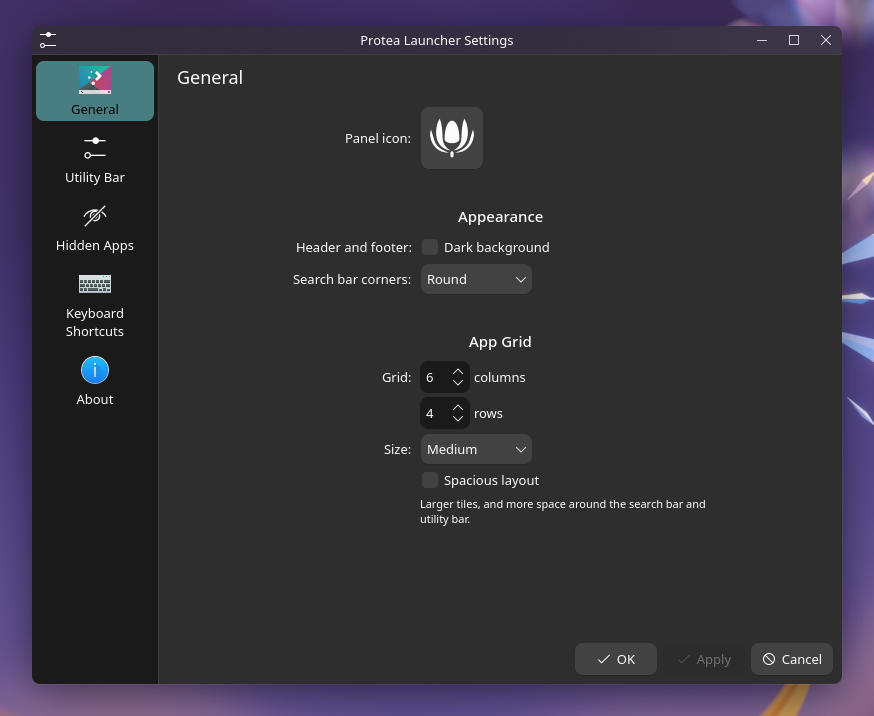
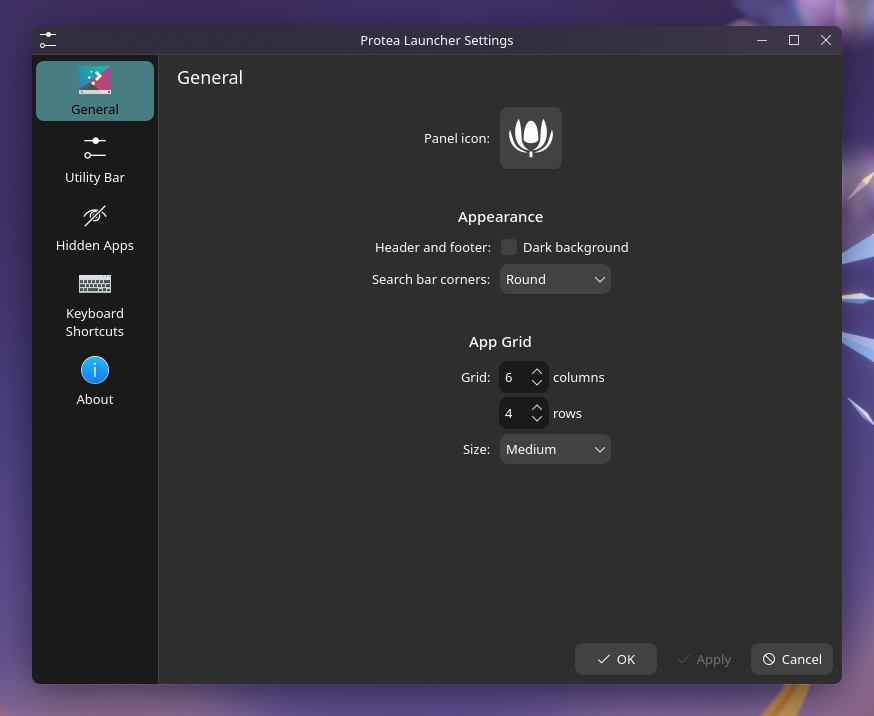
removed spacious layout option

diff --git a/package/contents/ui/FullRepresentation.qml b/package/contents/ui/FullRepresentation.qml
@@ -75,12 +75,9 @@ T.Control {
     implicitWidth: implicitContentWidth + leftPadding + rightPadding
     implicitHeight: implicitContentHeight + topPadding + bottomPadding
 
-    // Larger tiles, and more space around the header and footer.
-    readonly property bool spacious: Plasmoid.configuration.spaciousLayout
-
     // The same gap between the popup's edges and the sections, and between the sections:
-    // the space around the header and footer. Half as much again in the spacious layout.
-    readonly property real sectionGap: spacious ? Kirigami.Units.largeSpacing * 1.5 : Kirigami.Units.largeSpacing
+    // the space around the header and footer.
+    readonly property real sectionGap: Kirigami.Units.largeSpacing
 
     // Whether the header and footer (the search bar and utility bar) sit in dark bands.
     readonly property bool darkHeaderFooter: Plasmoid.configuration.headerFooterDarkBackground
@@ -94,12 +91,11 @@ T.Control {
     // Apps left out of the grid (they still show up in search), by desktop file ID.
     readonly property list<string> hiddenApps: Plasmoid.configuration.hiddenApps
 
-    // Icon size, tile size and larger tile size for each app grid size (the gridSize
-    // setting). The spacious layout picks the larger tile.
+    // Icon size and tile size for each app grid size (the gridSize setting).
     readonly property var gridSizes: ({
-        small: { iconSize: 40, tileSize: 104, largerTileSize: 112 },
-        medium: { iconSize: 48, tileSize: 112, largerTileSize: 120 },
-        large: { iconSize: 56, tileSize: 120, largerTileSize: 128 },
+        small: { iconSize: 40, tileSize: 104 },
+        medium: { iconSize: 48, tileSize: 112 },
+        large: { iconSize: 56, tileSize: 120 },
     })
     readonly property var gridSize: gridSizes[Plasmoid.configuration.gridSize] ?? gridSizes.medium
 
@@ -307,7 +303,7 @@ T.Control {
             columns: Plasmoid.configuration.columns
             rows: Plasmoid.configuration.rows
             iconSize: root.gridSize.iconSize
-            tileSize: root.spacious ? root.gridSize.largerTileSize : root.gridSize.tileSize
+            tileSize: root.gridSize.tileSize
             // Enter in the search box launches the selected tile too.
             highlightActive: activeFocus || searchBar.activeFocus
             hiddenApps: root.hiddenApps

diff --git a/package/contents/ui/ConfigGeneral.qml b/package/contents/ui/ConfigGeneral.qml
@@ -23,7 +23,6 @@ KCM.SimpleKCM {
     property alias cfg_columns: columns.value
     property alias cfg_rows: rows.value
     property string cfg_gridSize
-    property alias cfg_spaciousLayout: spaciousLayout.checked
 
     // Plasma also passes each setting's default; these give it somewhere to go.
     property string cfg_iconDefault
@@ -32,7 +31,6 @@ KCM.SimpleKCM {
     property int cfg_columnsDefault
     property int cfg_rowsDefault
     property string cfg_gridSizeDefault
-    property bool cfg_spaciousLayoutDefault
 
     // Set on the Utility Bar and Hidden Apps pages; Plasma hands every setting to every page.
     property var cfg_showUtilityBar
@@ -169,18 +167,6 @@ KCM.SimpleKCM {
             valueRole: "value"
             currentIndex: root.gridSizeOptions.findIndex(option => option.value === root.cfg_gridSize)
             onActivated: root.cfg_gridSize = currentValue
-        }
-
-        // Tiles 8px larger, and 12px around the search bar and utility bar instead of 8.
-        QQC2.CheckBox {
-            id: spaciousLayout
-            text: i18nc("@option:check", "Spacious layout")
-        }
-        QQC2.Label {
-            Layout.maximumWidth: Kirigami.Units.gridUnit * 16
-            text: i18nc("@info", "Larger tiles, and more space around the search bar and utility bar.")
-            font: Kirigami.Theme.smallFont
-            wrapMode: Text.Wrap
         }
     }
 }

diff --git a/package/contents/ui/ConfigHiddenApps.qml b/package/contents/ui/ConfigHiddenApps.qml
@@ -30,8 +30,6 @@ KCM.ScrollViewKCM {
     property var cfg_rowsDefault
     property var cfg_gridSize
     property var cfg_gridSizeDefault
-    property var cfg_spaciousLayout
-    property var cfg_spaciousLayoutDefault
     property var cfg_showUtilityBar
     property var cfg_showUtilityBarDefault
     property var cfg_showAvatar

diff --git a/package/contents/ui/ConfigUtilityBar.qml b/package/contents/ui/ConfigUtilityBar.qml
@@ -40,8 +40,6 @@ KCM.SimpleKCM {
     property var cfg_rowsDefault
     property var cfg_gridSize
     property var cfg_gridSizeDefault
-    property var cfg_spaciousLayout
-    property var cfg_spaciousLayoutDefault
     property var cfg_hiddenApps
     property var cfg_hiddenAppsDefault
 

diff --git a/DIMENSIONS.md b/DIMENSIONS.md
@@ -3,7 +3,7 @@
 Every size and gap used in the launcher popup, measured from the running code.
 
 - **Measured:** 2026-10-22 on Plasma 6.8.0 (Qt 6.12, Frameworks 6.31): the real popup loaded offscreen with the installed Plasma modules and KDE's font settings. First measured 2026-10-04 on Plasma 6.7. The popup padding and section spacing went from 12 to 8 later on 2026-10-22, and the default size from Cozy to Medium when Compact and Cozy were removed; the values here are for 8 and Medium.
-- **Settings:** the defaults: 6 columns × 4 rows, the **Medium** size (48px icons in 112px tiles), Round search bar corners, no dark header and footer, not the spacious layout.
+- **Settings:** the defaults: 6 columns × 4 rows, the **Medium** size (48px icons in 112px tiles), Round search bar corners, no dark header and footer.
 - **Font:** Noto Sans 10pt (line height 17.7px). Label heights change with the system font. The Kirigami spacing units don't: they're fixed values.
 - **Units:** logical pixels, before display scaling.
 - **Not included:** the frame Plasma draws around the popup: 4px on every side with the Breeze theme. The window on screen is that much larger than the content sizes here. In a panel that isn't floating, Plasma also adds 1px between the popup and the panel (to the height for a top or bottom panel, the width for a side panel) for the separator line it draws there, and that pixel ends up in the app grid section: 465 tall instead of 464 under a bottom panel.
@@ -11,8 +11,6 @@ Every size and gap used in the launcher popup, measured from the running code.
 ## At a glance
 
 Content area: **720 × 562px** (720 × 554 with the dark header and footer). The popup has **8px padding** on every side and its three sections (search bar, app grid, utility bar) are **8px apart**, so the search bar and utility bar have 8px on all sides. The app grid spans the popup's full width and has one **24px gap** at each side of the tiles, with the scrollbar inside the right one, so the tiles are centred whether or not the scrollbar shows. Above the first row and below the last there's **8px** of empty space that scrolls with the tiles.
-
-With **Spacious layout** ticked (under Size) the padding and section spacing are **12px** instead, `largeSpacing × 1.5`, and the tiles are 8 larger (see [App grid sizes](#app-grid-sizes)). At 6 × 4 Medium the popup is 768 × 610 (602 with the dark header and footer; 562 and 558 without the utility bar), and each bar is 744 wide (752 in the dark bands).
 
 ### Top to bottom
 
@@ -62,8 +60,8 @@ It only ends up smaller if Plasma has to shrink it to fit the screen (Plasma cap
 |---|---|---|
 | Content size | 720 × 562 (720 × 554 with the dark header and footer) | Worked out by the layout from the content: columns × rows of tiles, the padding around them, and the bars |
 | Size limits | Minimum = maximum = content size, for both width and height | `Layout.minimum…`/`maximum…` bound to the implicit size; Plasma takes the popup's size limits from them, so it can't be dragged to another size |
-| Padding (all four sides) | 8 (4 at the top and bottom with the dark header and footer); 12 (8) in the spacious layout | `padding` = `sectionGap` = `Kirigami.Units.largeSpacing`, × 1.5 with the `spaciousLayout` setting; the app grid has `Layout.leftMargin` and `Layout.rightMargin` of −8 to span the full width, and its own gap at each side instead |
-| Section spacing | 8 (12 in the spacious layout) | `spacing` = `sectionGap` |
+| Padding (all four sides) | 8 (4 at the top and bottom with the dark header and footer) | `padding` = `sectionGap` = `Kirigami.Units.largeSpacing`; the app grid has `Layout.leftMargin` and `Layout.rightMargin` of −8 to span the full width, and its own gap at each side instead |
+| Section spacing | 8 | `spacing` = `sectionGap` |
 
 ## Search bar
 
@@ -84,7 +82,7 @@ It only ends up smaller if Plasma has to shrink it to fit the screen (Plasma cap
 | Position | x 0, y 46 | Popup padding, search bar and section spacing above it |
 | Gap at each side | 24 between the section's edge and the tiles, the same on both sides (`horizontalPadding`, `Kirigami.Units.largeSpacing × 3`). It's the grid view's own margin, as in Kickoff, so the wheel and dragging scroll the grid from the gaps too | The scrollbar sits inside the right gap, so it doesn't change where the tiles are |
 | Scrolling space | 8 of empty space above the first row and below the last, which scrolls with the tiles, so they can move through it (`scrollPadding`, the grid's header and footer; `Kirigami.Units.largeSpacing`) | Arrowing into the first or last row scrolls all the way to the top or bottom, so the space shows |
-| Cell | 112 × 112, square | The size's tile (or larger tile); never smaller than a tile's icon and two-line label need |
+| Cell | 112 × 112, square | The size's tile; never smaller than a tile's icon and two-line label need |
 | Columns × rows | 6 × 4 | `columns`, `rows` settings |
 | Tile area | 672 × 448 at x 24, y 54 (at the top of the list) | columns × cell, rows × cell |
 | Scrollbar | 18-wide slot at the popup's right edge, inside the 24 gap, the full height of the section, 6 clear of the tiles; the visible handle is 6 wide, with 6 of the slot's own padding on each side, so it sits 6 from the popup's edge and 12 from the last column of tiles. The 1px separator Breeze asks Plasma to draw along the slot's inner edge is hidden | Plasma scrollbar style; it takes no space of its own |
@@ -132,7 +130,6 @@ All fixed values in Kirigami 6; Plasma only changes the animation durations.
 | Unit | Value | Used for |
 |---|---:|---|
 | `smallSpacing` | 4 | Icon-to-label gap in tiles |
-| `largeSpacing × 1.5` | 12 | Popup padding and section spacing in the spacious layout |
 | `largeSpacing` | 8 | Popup padding and section spacing (`sectionGap`), the scrolling space above and below the tiles, tile padding, gap between utility buttons |
 | `largeSpacing × 3` | 24 | The gap at each side of the app grid |
 | `gridUnit` | 18 | Utility button size (× 2); "No matches" message inset (× 4) |
@@ -154,25 +151,22 @@ All fixed values in Kirigami 6; Plasma only changes the animation durations.
 
 ## App grid sizes
 
-The app grid's **Size** setting picks one of three sizes, each an icon size and a tile size. **Spacious layout** swaps in a tile 8 larger for whichever size is chosen, and puts 12 around the header and footer instead of 8. Every combination leaves room for the icon and a two-line name: a tile needs 8 + icon + 4 + 36 (two lines) + 8, and the tile is 8 more than that (16 more with the spacious layout's larger tile).
+The app grid's **Size** setting picks one of three sizes, each an icon size and a tile size. Every size leaves room for the icon and a two-line name: a tile needs 8 + icon + 4 + 36 (two lines) + 8, and the tile is 8 more than that.
 
-| Size | Icon | Tile | Larger tile | Tile needs |
-|---|---:|---:|---:|---:|
-| Small | 40 | 104 | 112 | 96 |
-| Medium (default) | 48 | 112 | 120 | 104 |
-| Large | 56 | 120 | 128 | 112 |
+| Size | Icon | Tile | Tile needs |
+|---|---:|---:|---:|
+| Small | 40 | 104 | 96 |
+| Medium (default) | 48 | 112 | 104 |
+| Large | 56 | 120 | 112 |
 
 | Size | Label width | Icon from top / label from bottom | Popup content at 6 × 4 |
 |---|---:|---|---:|
 | Small | 88 | 12 / 12 | 672 × 530 |
-| Small, spacious | 96 | 16 / 16 | 720 × 578 |
 | Medium (default) | 96 | 13 / 11 | 720 × 562 |
-| Medium, spacious | 104 | 17 / 15 | 768 × 610 |
 | Large | 104 | 13 / 11 | 768 × 594 |
-| Large, spacious | 112 | 18 / 14 | 816 × 642 |
 
 - Width = columns × tile + 48: the 24 gap at each side of the grid.
-- Height = rows × tile + 114: 54 above the tiles (8 + 30 + 8 + 8) and 60 below them (8 + 8 + 36 + 8). 8 less with the dark header and footer. In the spacious layout it's rows × tile + 130, as the four gaps of 8 there are 12.
+- Height = rows × tile + 114: 54 above the tiles (8 + 30 + 8 + 8) and 60 below them (8 + 8 + 36 + 8). 8 less with the dark header and footer.
 
 ## Where it's set
 
@@ -184,4 +178,4 @@ The app grid's **Size** setting picks one of three sizes, each an icon size and 
 | Round search bar corners | [search/SearchBar.qml](package/contents/ui/search/SearchBar.qml) |
 | Avatar size, gap between buttons, button icon names, power menu | [utility/UtilityBar.qml](package/contents/ui/utility/UtilityBar.qml) |
 | Button size, button icon size | [utility/UtilityButton.qml](package/contents/ui/utility/UtilityButton.qml) |
-| Defaults for columns, rows, size, spacious layout, dark header and footer, search bar corners | [config/main.xml](package/contents/config/main.xml) |
+| Defaults for columns, rows, size, dark header and footer, search bar corners | [config/main.xml](package/contents/config/main.xml) |

diff --git a/PUBLISHING.md b/PUBLISHING.md
@@ -74,7 +74,7 @@ Taken after Phase 3, so they show the launcher as it will ship. Keep them outsid
 - [x] The blank square in Plasma's Alternative Widgets list. It wasn't a missing preview picture: that list, and Add Widgets, show each widget's icon, and Protea's didn't load. `metadata.json` gave it as `/contents/icons/protea.svg`, but Plasma looks up an icon starting with `/` inside the package's `contents/` folder, so it found nothing. It's `/icons/protea.svg` now, and shows in both. The panel icon was never affected: Protea sets that itself
 - [x] A short description for the store page: in [STORE.md](STORE.md), with the store's other fields and the order to upload the screenshots in
 
-How the screenshots were taken (2026-10-22): in the same kind of nested Plasma 6.8 session as Phase 3, on a 1920 × 1080 screen at 100%, with the Protea Dark theme copied from the installed files (its Teal accent, Plasma Style, Breeze Dark icons, and the Protea app style and window decoration), Plasma's default wallpaper, and a bottom panel. The grid hides the same apps as your own panel. The avatar shows its letter rather than a picture: the test copy of the launcher was changed for that, not the one in `package/`. The popup shots are cropped to the popup and the panel's corner; the settings shots to the window with 32 px around it. `popup.png` and `search.png` were retaken the same day after the popup's padding went from 12 to 8, and `settings-general.png` after Spacious layout replaced Use larger tiles and Larger padding. All three were retaken again when Medium became the default size.
+How the screenshots were taken (2026-10-22): in the same kind of nested Plasma 6.8 session as Phase 3, on a 1920 × 1080 screen at 100%, with the Protea Dark theme copied from the installed files (its Teal accent, Plasma Style, Breeze Dark icons, and the Protea app style and window decoration), Plasma's default wallpaper, and a bottom panel. The grid hides the same apps as your own panel. The avatar shows its letter rather than a picture: the test copy of the launcher was changed for that, not the one in `package/`. The popup shots are cropped to the popup and the panel's corner; the settings shots to the window with 32 px around it. `popup.png` and `search.png` were retaken the same day after the popup's padding went from 12 to 8, and `settings-general.png` after Spacious layout replaced Use larger tiles and Larger padding. All three were retaken again when Medium became the default size, and `settings-general.png` once more when Spacious layout was removed.
 
 **Done when:** the screenshots and the store description are ready to upload.
 

diff --git a/PLAN.md b/PLAN.md
@@ -260,6 +260,7 @@ Things only a running session shows. Most were checked offscreen: the real popup
 - [x] **Larger padding** setting (`headerFooterLargerPadding`, off by default), a second box under Header and footer on the General page: `sectionGap` goes back to `largeSpacing × 1.5` (12), the padding before the change above. Checked in a nested Plasma session: off is 546 tall, on is 562 (554 with the dark bands), and the box saves
 - [x] **Spacious layout** (`spaciousLayout`, off by default) in place of both Use larger tiles (`largerTiles`) and Larger padding (`headerFooterLargerPadding`): one box under Size, with a line under it saying what it does. Ticked, it picks the size's larger tile and puts 12 around the header and footer instead of 8; at 6 × 4 Cozy the popup goes from 696 × 546 to 744 × 594. Neither old setting had been released, so there's no migration; your own panel had both on and was switched to Spacious layout. Also corrected the tile sizes in `main.xml`'s description of `gridSize`, still the ones from before the tile swap
 - [x] Compact and Cozy sizes removed, leaving Small (40 / 104), Medium (48 / 112) and Large (56 / 120). Medium is the default now (user's choice): 48 is a size icon themes draw by hand, and Kickoff's grid uses it. The default popup is 720 × 562 (768 × 610 in the spacious layout). A saved `compact` or `cozy` falls back to Medium. DIMENSIONS.md redone for Medium; screenshots retaken
+- [x] Spacious layout removed (user's request), and with it each size's larger tile (`largerTileSize`) and the 12 padding: the sizes are Small 40 / 104, Medium 48 / 112 and Large 56 / 120, and `sectionGap` is `largeSpacing` (8). The default popup is unchanged at 720 × 562; `settings-general.png` retaken
 
 ## Later (out of scope)
 

diff --git a/README.md b/README.md
@@ -71,7 +71,6 @@ The settings are on three pages: **General** (panel icon, appearance and the app
 | Search bar corners | Round (fully rounded ends, filled with the text colour at 10%); or Default, the theme's own search field |
 | Columns × rows | 6 × 4 (3 to 12 each); the popup sizes itself to fit |
 | Size | Medium (48 px icons); also Small (40 px) and Large (56 px). Each sets the icon size and its tile size |
-| Spacious layout | Off; tick it for tiles 8 px larger at whichever size is chosen, and 12 px around the search bar and utility bar instead of 8. At 6 × 4 the popup gets 48 px wider and taller |
 | Utility bar | Shown; untick it for a popup without the bar at the bottom, 48 px shorter. The rest of the Utility Bar page is greyed out while it's hidden |
 | User avatar | On; untick it to leave the avatar off the utility bar. The buttons stay on the right |
 | Buttons on the utility bar | System Settings and the power menu; any session action can also get its own button |

diff --git a/STORE.md b/STORE.md
@@ -20,7 +20,7 @@ Protea replaces the Application Launcher with a compact popup in three parts: a 
 
 Features:
 - Start typing to search apps and System Settings pages; Enter launches the first result
-- Choose the grid's columns and rows, one of three icon sizes, and a more spacious layout
+- Choose the grid's columns and rows, and one of three icon sizes
 - Full keyboard control: arrows, Home/End, Page Up/Down, Tab, Esc
 - Right-click an app for its own actions (such as New Private Window), Add to Desktop, Pin to Task Manager, Edit Application and Hide
 - Hide apps you never use; they still show up when you search
